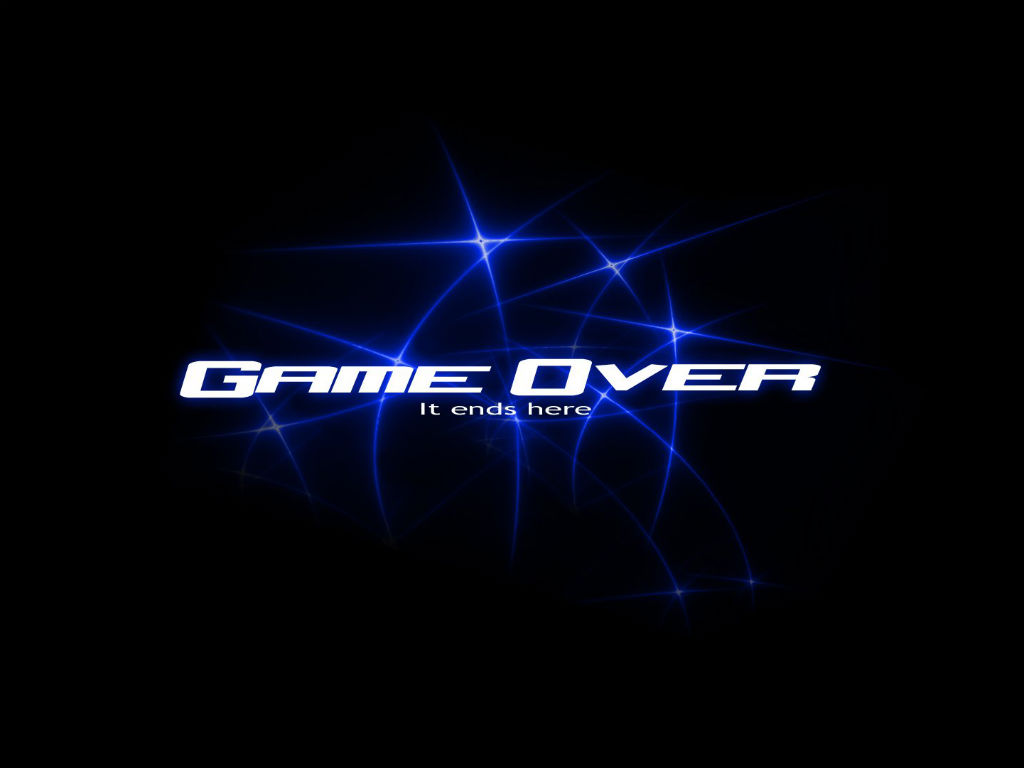
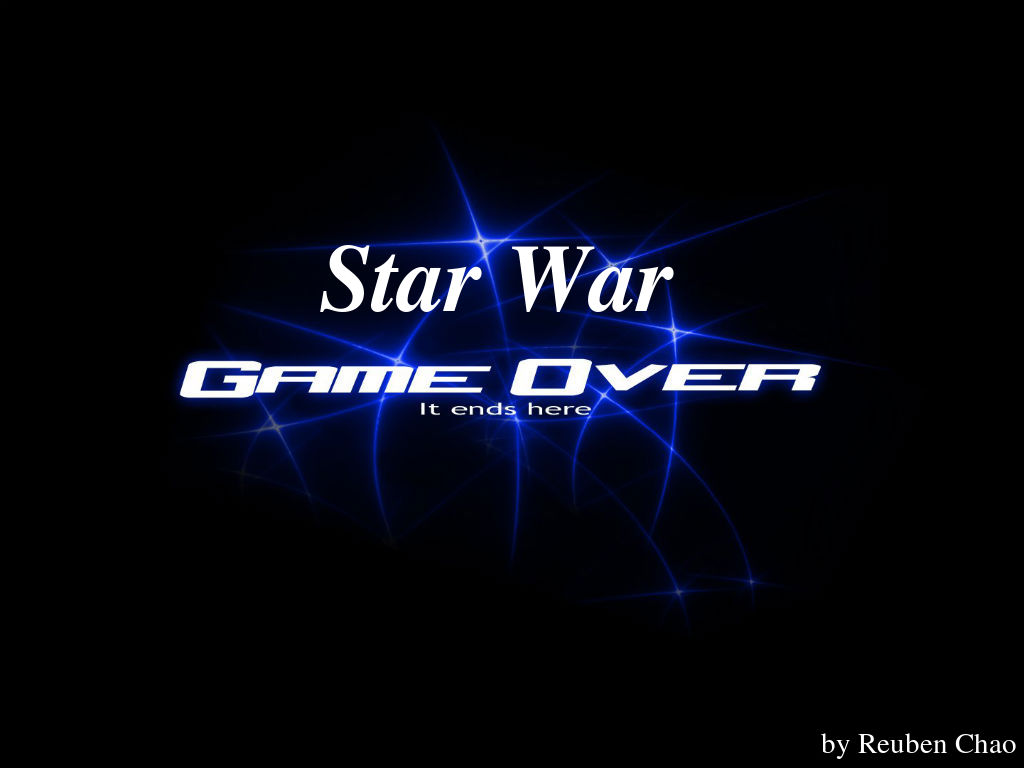
ui change

Changed region(s): [[0.5, 0.3125, 0.6562, 0.4062], [0.3125, 0.3125, 0.4688, 0.4062], [0.8125, 0.9375, 1.0, 1.0]]

diff --git a/Classes/GameOver.js b/Classes/GameOver.js
@@ -19,8 +19,8 @@ var GameOver = cc.Layer.extend({
             menu.setPosition(cc.ccp(winSize.width / 2, 220));
 
             var lbScore = cc.LabelTTF.create("Your Score : " + my.score, "Arial Bold", 30);
-            lbScore.setPosition(cc.ccp(winSize.width / 2, 280));
-            lbScore.setColor(cc.ccc3(250, 179, 0));
+            lbScore.setPosition(cc.ccp(winSize.width / 2, 300));
+            lbScore.setColor(cc.ccc3(255, 255, 255));
             this.addChild(lbScore, 10);
 
             bRet = true;

diff --git a/index.html b/index.html
@@ -6,7 +6,8 @@
     <meta name="author" content="Reuben Chao" />
 </head>
 <body>
-<div style="width: 1024px; height: 768px; margin: 0 auto; margin-top: 50px">
+<div style="width: 1024px; height: 768px; margin: 0 auto; margin-top: 30px">
+    <h2 style="text-align: center">Star war —— a small game base on HTML5.<h2>
     <canvas id="gameCanvas" width="1024" height="768" style="border: #333300 1px solid; background: #000000;"></canvas>
 </div>
 <div id="cou" style="width:1024px;margin: 0 auto;"></div>
